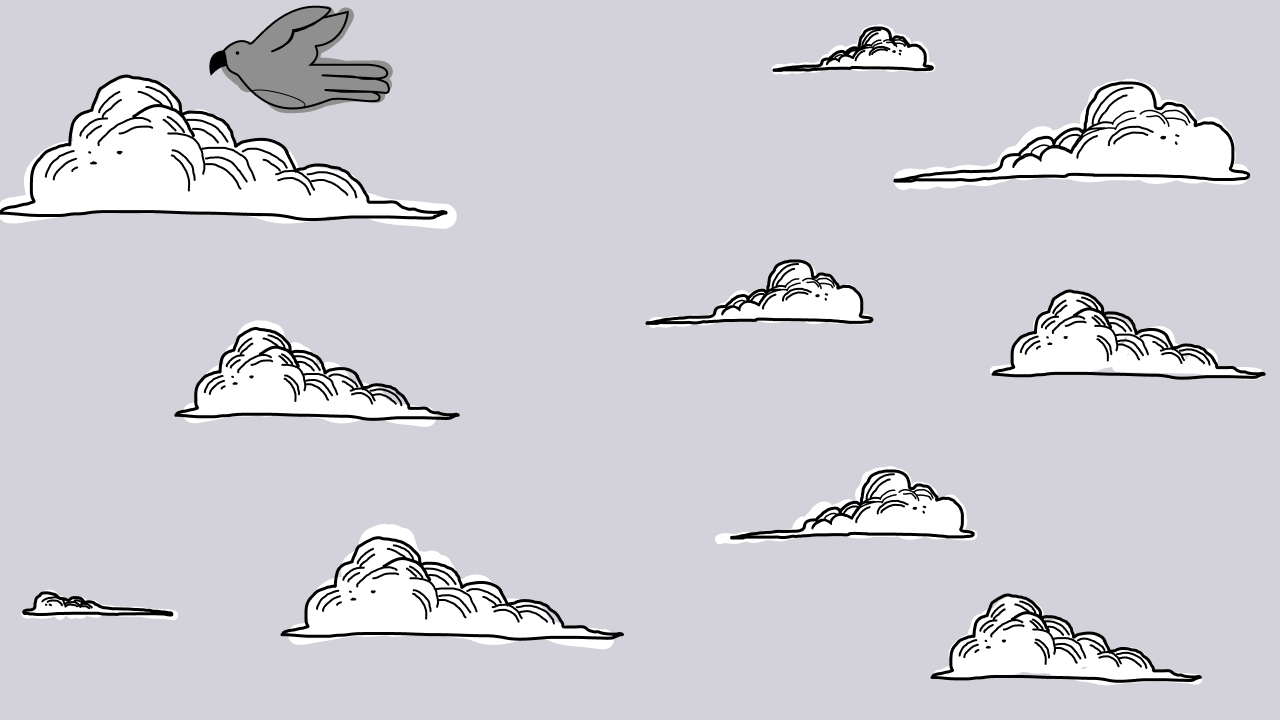
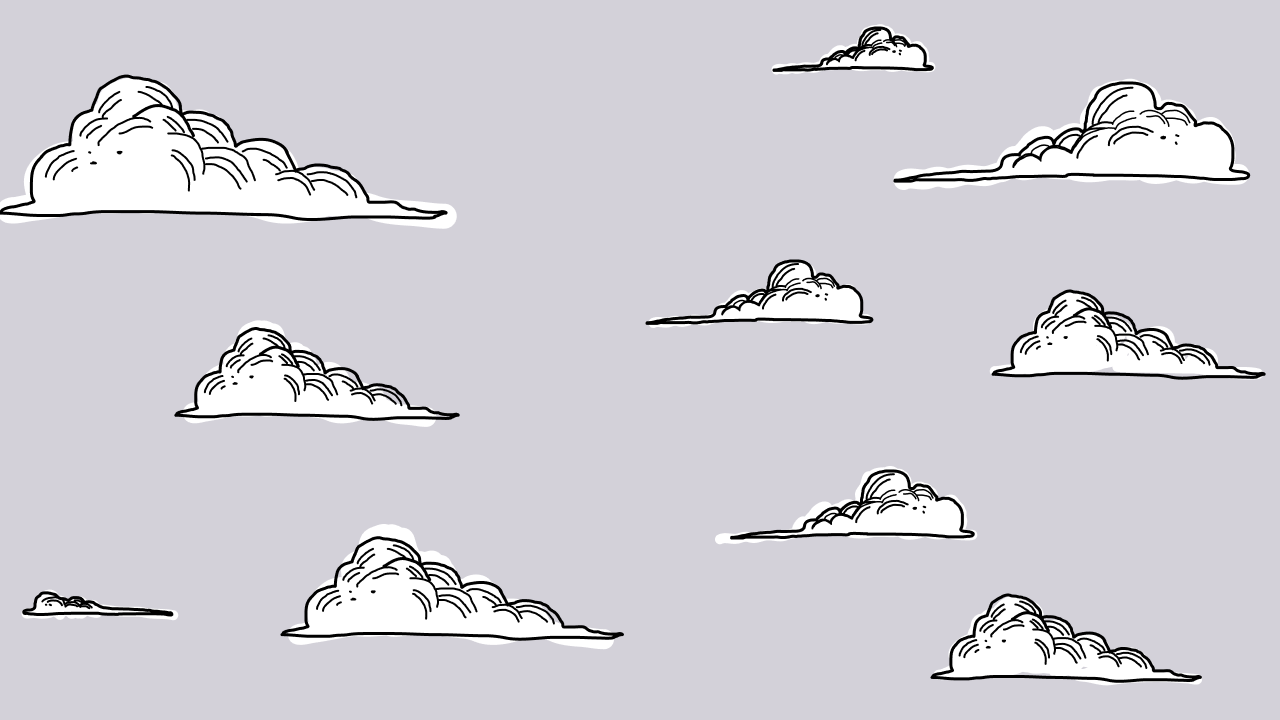
Noah

Changed region(s): [[0.1562, 0.0, 0.3125, 0.1833]]

diff --git a/Murmelbahn/code/sketch.js b/Murmelbahn/code/sketch.js
@@ -32,6 +32,10 @@ let eiY = -0.02;
 //Objects in the Kitchen
 let brett1a, brett1b, brett2a, brett2b, brett3a, brett3b;
 
+//Vogel
+let vogel;
+let vogelX = 1200;
+
 //Musik an
 let musikan = 0;
 
@@ -51,6 +55,8 @@ function preload() {
 	brett2bImage = loadImage("./frame6/brett4.png");
 	brett3aImage = loadImage("./frame6/brett5.png");
 	brett3bImage = loadImage("./frame6/brett6.png");
+	//Vogel
+	vogel = loadImage("./frame1/Vogel.png");
 }
 
 function setup() {
@@ -134,9 +140,13 @@ function draw() {
 		magnet.draw();
 		magnet.attract();
 	}
-	//magnet.attract();
-	//magnet.draw();
 	ei.draw();
+	//for (let i = 12000; i >= 0; i--) {
+	//	if (i % 10 === 0) {
+	//		console.log("Hallo");
+	//		vogelX = vogelX - 1;
+	//	}
+	//}
 }
 
 function onKeyDown(event) {
